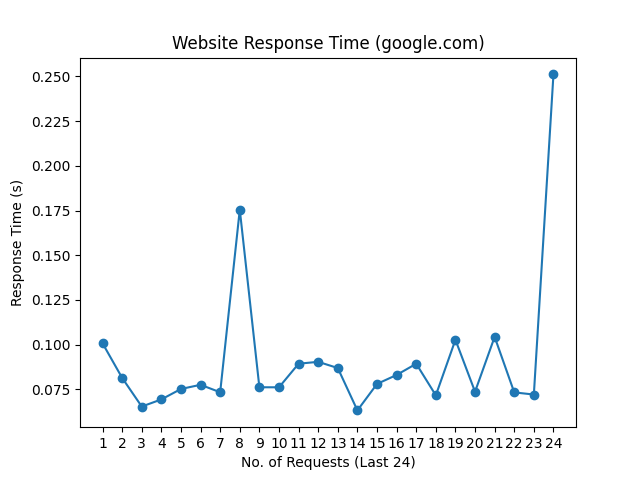
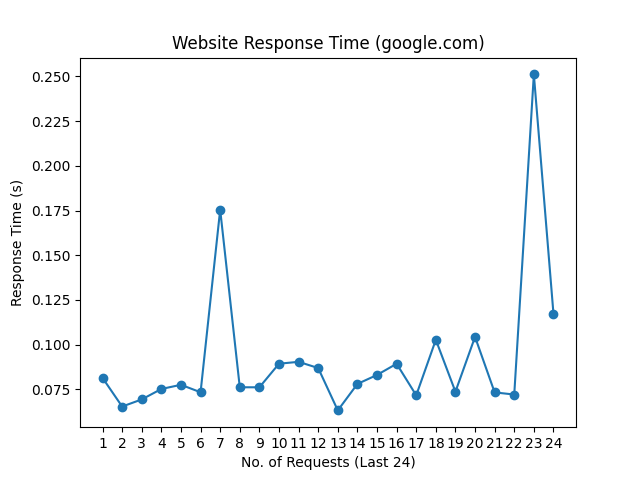
update README.md, history and graph

Changed region(s): [[0.1562, 0.125, 0.875, 0.875]]

diff --git a/README.md b/README.md
@@ -1,10 +1,10 @@
 # Web Monitoring
 
-Last Checked: 28/09/2024 08:19
+Last Checked: 29/09/2024 08:22
 
 | Website | Response Time (s) | Status | Avg Uptime (%) |
 |---------|-------------------|--------|----------------|
 | www.thiswebsiteisdown.net | 0 <br> <img src="graph/thiswebsiteisdown.net.png" alt="Graph" width="200" height="200">  | ❌ Down | 0.00 |
-| www.netflix.com | 0.784142 <br> <img src="graph/netflix.com.png" alt="Graph" width="200" height="200">  | ✅ Up | 100.00 |
-| www.google.com | 0.251143 <br> <img src="graph/google.com.png" alt="Graph" width="200" height="200">  | ✅ Up | 100.00 |
-| www.facebook.com | 0.201564 <br> <img src="graph/facebook.com.png" alt="Graph" width="200" height="200">  | ✅ Up | 100.00 |
+| www.netflix.com | 0.752119 <br> <img src="graph/netflix.com.png" alt="Graph" width="200" height="200">  | ✅ Up | 100.00 |
+| www.google.com | 0.117324 <br> <img src="graph/google.com.png" alt="Graph" width="200" height="200">  | ✅ Up | 100.00 |
+| www.facebook.com | 1.440590 <br> <img src="graph/facebook.com.png" alt="Graph" width="200" height="200">  | ✅ Up | 100.00 |
